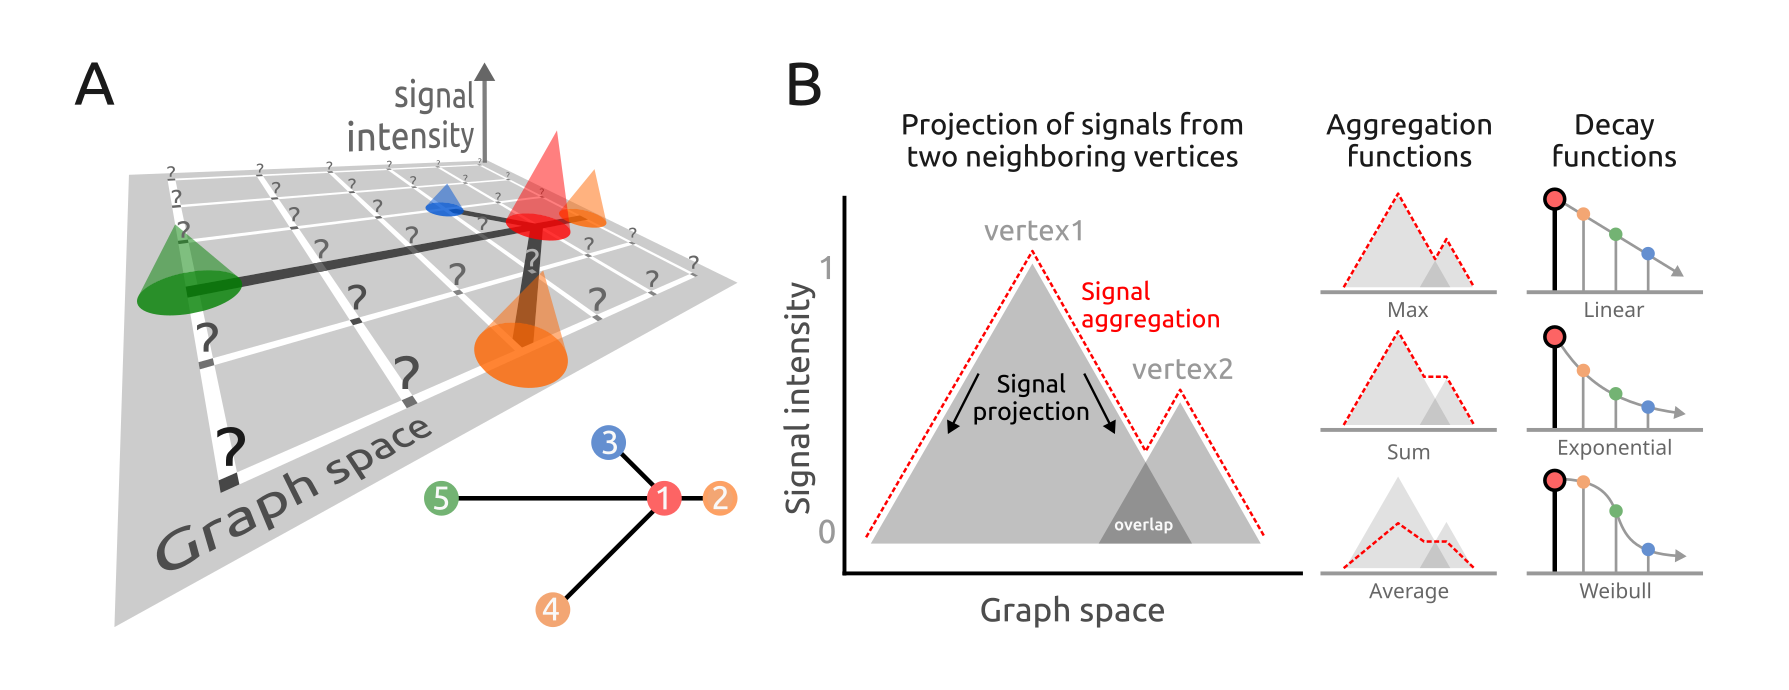
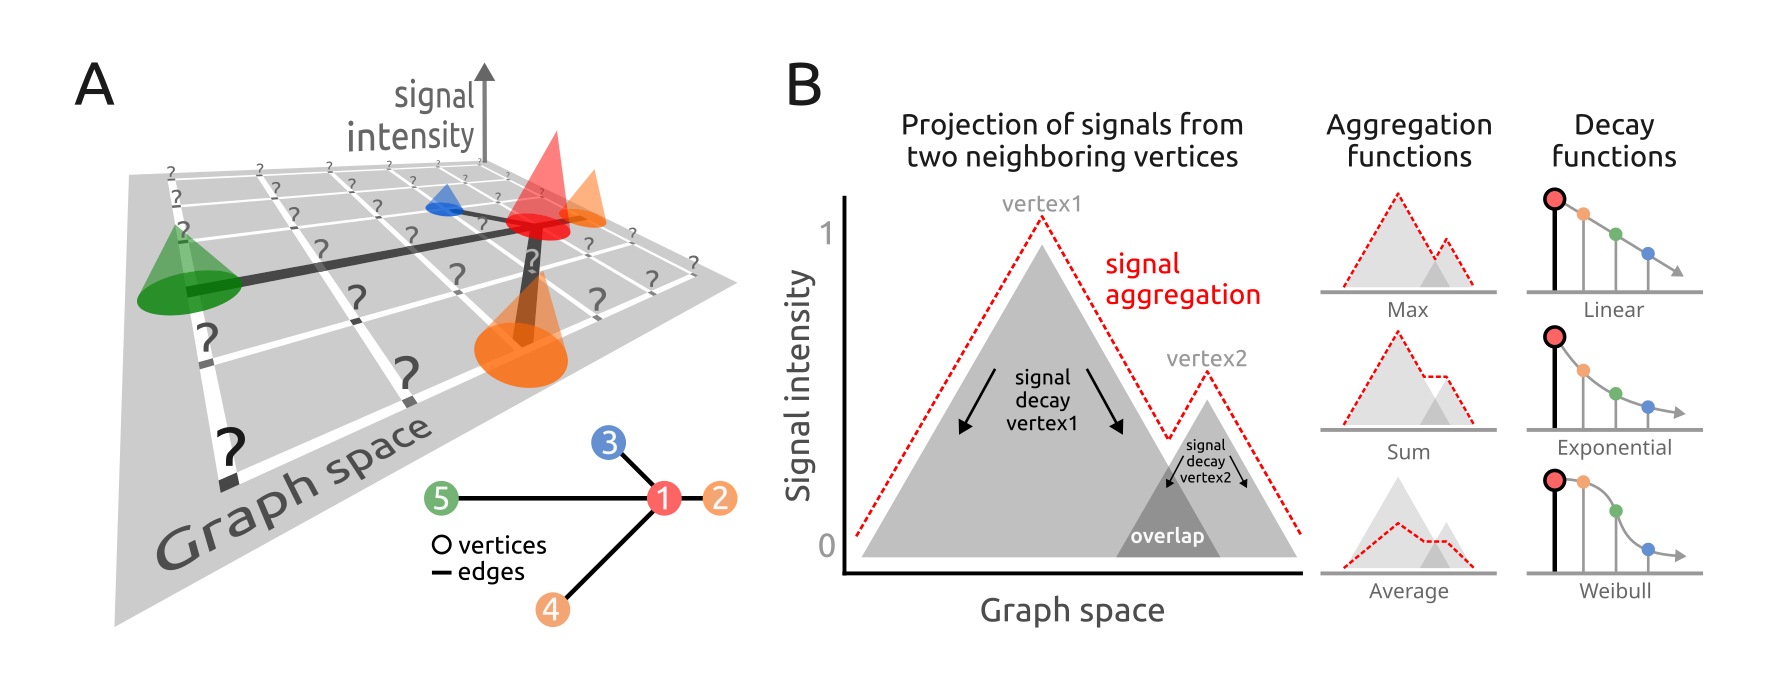
regular maintenance

Changed region(s): [[0.4304, 0.2739, 0.7378, 0.8217], [0.2459, 0.7609, 0.3074, 0.8522]]

diff --git a/README.md b/README.md
@@ -6,9 +6,19 @@
   [![](https://img.shields.io/badge/license-Artistic--2.0-blue.svg)](https://cran.r-project.org/web/licenses/Artistic-2.0)
   [![](https://img.shields.io/badge/doi-10.32614/CRAN.package.PathwaySpace-blue.svg)](https://doi.org/10.32614/CRAN.package.PathwaySpace)
   <!-- badges: end -->
-*PathwaySpace* is an R package that creates landscape images from graphs containing vertices (nodes), edges (lines), and a signal associated with the vertices. The package processes the signal using a convolution algorithm that considers the graph's topology to project the signal on a 2D space. 
+*PathwaySpace* is an R package that creates landscape images from graphs 
+containing vertices (nodes), edges (lines), and a signal associated with 
+the vertices. The package processes the signal using a convolution algorithm 
+that considers the graph's topology to project the signal on a 2D space. 
 
-*PathwaySpace* could have various applications, such as visualizing network data in a graphical format that highlights the relationships and signal strengths between vertices. 
+*PathwaySpace* could have various applications, such as visualizing network 
+data in a graphical format that highlights the relationships and signal 
+strengths between vertices. **Figure 1** illustrates the convolution 
+operation problem addressed by the *PathwaySpace* package. For detailed 
+documentation and usage examples, refer to the package's vignettes and 
+example workflows.
+
+![**Figure 1.** Signal processing addressed by the *PathwaySpace* package. **A**) Graph overlaid on a 2D coordinate system. **B**) Illustration of signal projection from two neighboring vertices. *Right*: Signal profiles from aggregation and decay functions.](https://github.com/sysbiolab/PathwaySpace/blob/main/vignettes/figures/fig1.png?raw=true)
 
 ### Installation in R (>=4.4)
 
